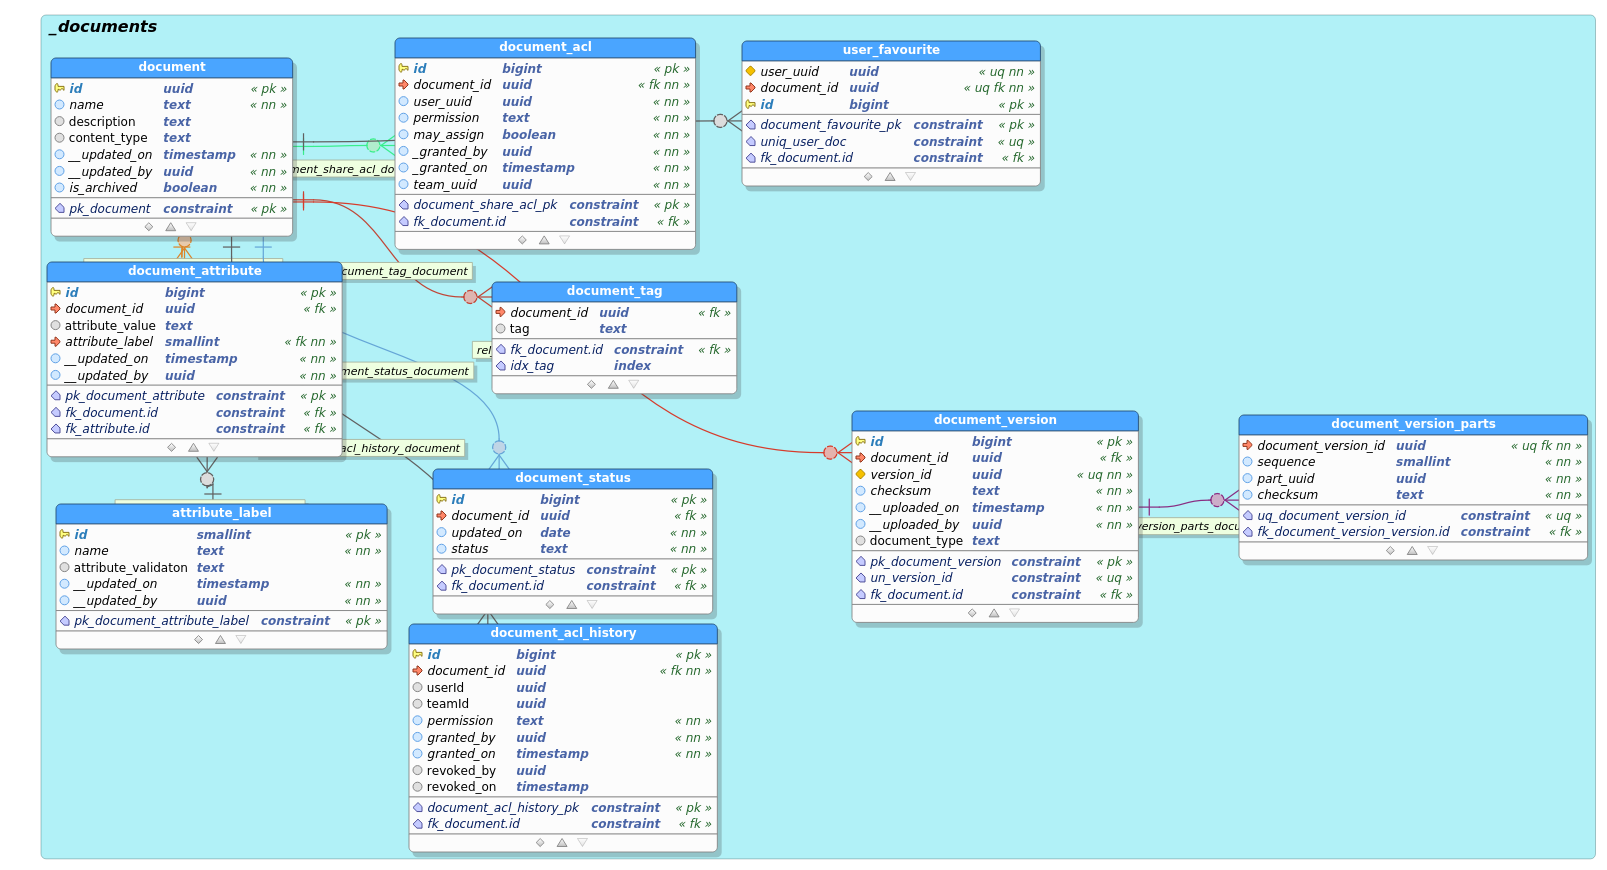
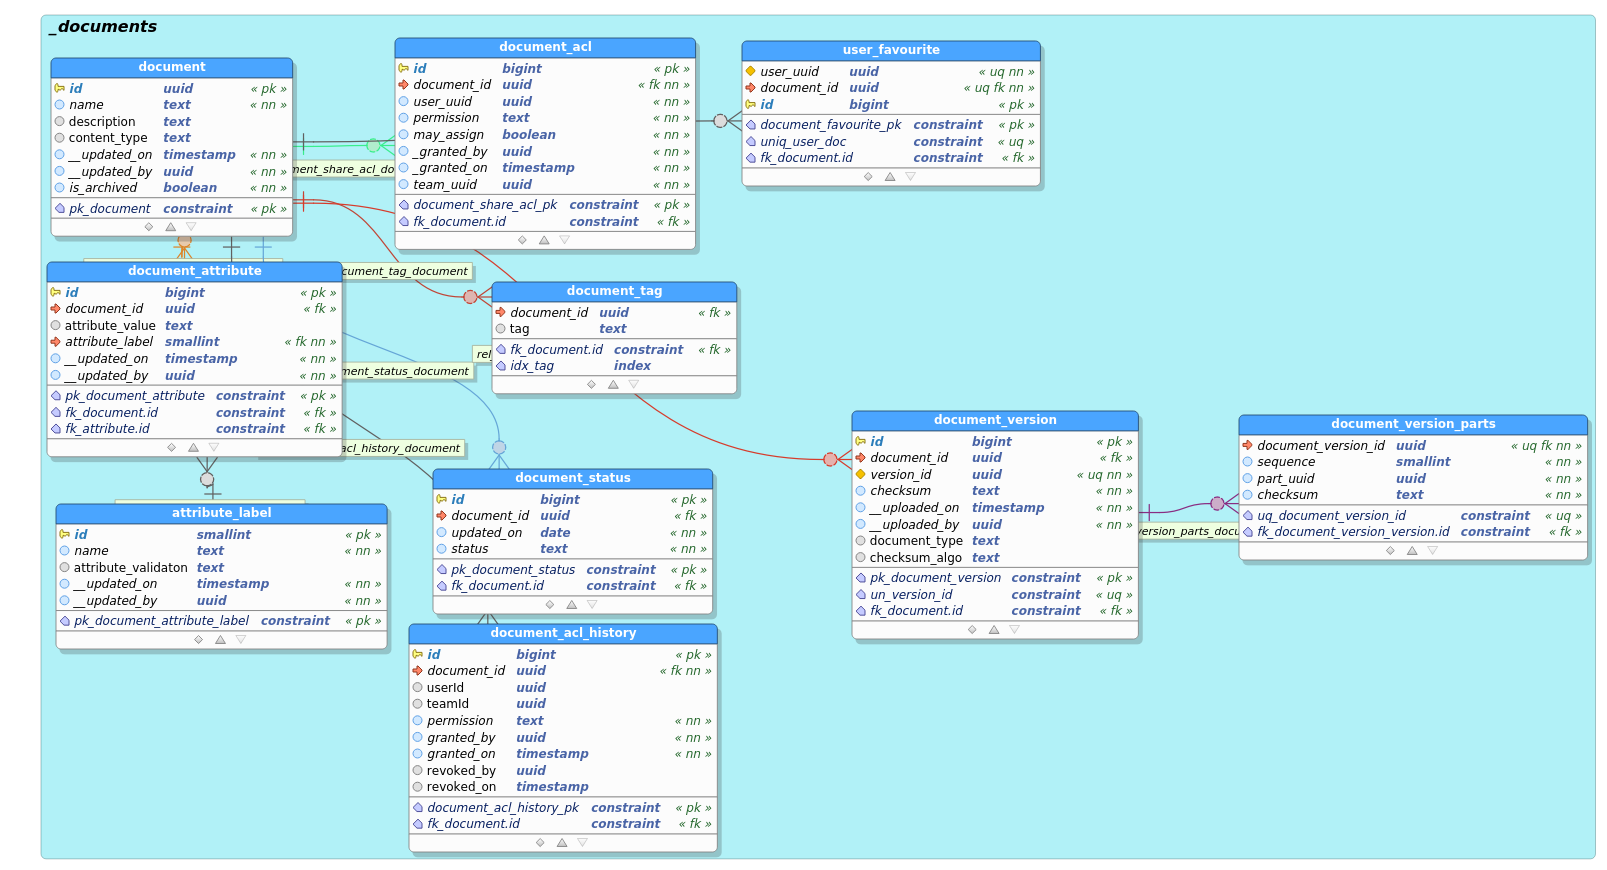
updated checksum algorithm

diff --git a/src/main/java/za/co/grindrodbank/dokuti/document/DocumentServiceImpl.java b/src/main/java/za/co/grindrodbank/dokuti/document/DocumentServiceImpl.java
@@ -127,7 +127,11 @@ public class DocumentServiceImpl implements DocumentService {
 		try {
 			File file = fileContent.getFile();
 			byte[] fileContentByteArray = Files.readAllBytes(file.toPath());
-			String calculatedFileContentChecksum = getFileContentChecksum(fileContentByteArray);
+			String checkSumAlgo = documentVersion.getChecksumAlgo();
+			if (StringUtils.isEmpty(checkSumAlgo)) {
+			    checkSumAlgo = "MD5"; // to support old checksums
+			}
+			String calculatedFileContentChecksum = getFileContentChecksum(fileContentByteArray, checkSumAlgo);
 
 			logger.debug("Calculated File Content Checksum: {} : FileVersionMetaData checksum: {}",
 					calculatedFileContentChecksum, documentVersion.getChecksum());
@@ -172,10 +176,11 @@ public class DocumentServiceImpl implements DocumentService {
         DocumentVersionEntity documentVersionEntity = documentVersionService.findById(documentVersionId);
         
         String checksum = documentVersionEntity.getChecksum();
+        String checksumAlgo = documentVersionEntity.getChecksumAlgo();
         InputStream is;
         try {
             is = getDocumentDataForVersion(documentVersionEntity.getDocument(), documentVersionEntity).getInputStream();
-            createDocumentVersionWithInputStream(is, checksum, documentEntity);
+            createDocumentVersionWithInputStream(is, checksum, checksumAlgo, documentEntity);
         } catch (IOException e) {
             logger.error(e.getMessage());
             throw new ResourceNotFoundException("Error reading document data.", e);
@@ -205,11 +210,13 @@ public class DocumentServiceImpl implements DocumentService {
 	 * @return The new document version that was created for the document.
 	 */
 	private DocumentVersionEntity createDocumentVersionWithFile(MultipartFile file, DocumentEntity document) {
+	    String defaultChecksumAlgo = "SHA-256";
+	    
 		String fileContentChecksum = "";
 		String documentType ="";
 
 		try {
-			fileContentChecksum = getFileContentChecksum(file.getBytes());
+			fileContentChecksum = getFileContentChecksum(file.getBytes(), defaultChecksumAlgo);
 		} catch (IOException e) {
 			logger.error(e.getMessage());
 		}
@@ -223,14 +230,13 @@ public class DocumentServiceImpl implements DocumentService {
         }
 		
 		DocumentVersionEntity newDocumentVersion = documentVersionService.createDocumentVersion(document,
-				fileContentChecksum, documentType);
+				fileContentChecksum, defaultChecksumAlgo, documentType);
 		documentStoreService.store(file, document.getId(), newDocumentVersion.getId());
 
 		return newDocumentVersion;
 	}
 
-    private DocumentVersionEntity createDocumentVersionWithInputStream(InputStream is, String fileContentChecksum, DocumentEntity document) {
-        
+    private DocumentVersionEntity createDocumentVersionWithInputStream(InputStream is, String fileContentChecksum, String checksumAlgo, DocumentEntity document) {
         String documentType ="";
         Tika tika = new Tika();
         try {
@@ -240,17 +246,17 @@ public class DocumentServiceImpl implements DocumentService {
             throw new ResourceNotFoundException("Error reading document data.", e);
         }
         
-        DocumentVersionEntity newDocumentVersion = documentVersionService.createDocumentVersion(document, fileContentChecksum, documentType);
+        DocumentVersionEntity newDocumentVersion = documentVersionService.createDocumentVersion(document, fileContentChecksum, checksumAlgo, documentType);
         documentStoreService.store(is, document.getId(), newDocumentVersion.getId());
 
         return newDocumentVersion;
     }
 	
-	
-	public String getFileContentChecksum(byte[] fileByteArray) {
+	@Override
+	public String getFileContentChecksum(byte[] fileByteArray, String checksumAlgo) {
 
 		try {
-			MessageDigest messageDigest = MessageDigest.getInstance("MD5");
+			MessageDigest messageDigest = MessageDigest.getInstance(checksumAlgo);
 			byte[] messageDigestHash = messageDigest.digest(fileByteArray);
 			String messageDigestHashString = "";
 
@@ -393,3 +399,5 @@ public class DocumentServiceImpl implements DocumentService {
 		}
 	}
 }
+
+

diff --git a/src/test/java/za/co/grindrodbank/dokuti/document/DocumentServiceUnitTests.java b/src/test/java/za/co/grindrodbank/dokuti/document/DocumentServiceUnitTests.java
@@ -222,7 +222,7 @@ public class DocumentServiceUnitTests {
 		mockDocumentVersion.setUploadedBy(userId);
 
 		Mockito.when(documentRepository.save(any(DocumentEntity.class))).thenReturn(documentMock);
-		Mockito.when(documentVersionService.createDocumentVersion(any(DocumentEntity.class), any(String.class), any(String.class)))
+		Mockito.when(documentVersionService.createDocumentVersion(any(DocumentEntity.class), any(String.class), any(String.class),any(String.class)))
 				.thenReturn(mockDocumentVersion);
 
 		PowerMockito.mockStatic(SecurityContextUtility.class);
@@ -325,7 +325,7 @@ public class DocumentServiceUnitTests {
 		mockDocumentVersion.setId(documentVersionId);
 		mockDocumentVersion.setUploadedBy(userId);
 
-		Mockito.when(documentVersionService.createDocumentVersion(any(DocumentEntity.class), any(String.class), any(String.class)))
+		Mockito.when(documentVersionService.createDocumentVersion(any(DocumentEntity.class), any(String.class), any(String.class), any(String.class)))
 				.thenReturn(mockDocumentVersion);
 		Mockito.when(documentRepository.save(any(DocumentEntity.class))).thenReturn(documentMock);
 		Mockito.when(resourcePermission.accessingUserCanWriteDocument((any(DocumentEntity.class)))).thenReturn(true);
@@ -379,7 +379,7 @@ public class DocumentServiceUnitTests {
 		mockDocumentVersion.setId(documentVersionId);
 		mockDocumentVersion.setUploadedBy(userId);
 
-		Mockito.when(documentVersionService.createDocumentVersion(any(DocumentEntity.class), any(String.class), any(String.class)))
+		Mockito.when(documentVersionService.createDocumentVersion(any(DocumentEntity.class), any(String.class), any(String.class), any(String.class)))
 				.thenReturn(mockDocumentVersion);
 		Mockito.when(documentRepository.save(any(DocumentEntity.class))).thenReturn(documentMock);
 		Mockito.when(resourcePermission.accessingUserCanWriteDocument((any(DocumentEntity.class)))).thenReturn(true);
@@ -413,7 +413,7 @@ public class DocumentServiceUnitTests {
 		mockDocumentVersion.setId(documentVersionId);
 		mockDocumentVersion.setUploadedBy(userId);
 
-		Mockito.when(documentVersionService.createDocumentVersion(any(DocumentEntity.class), any(String.class), any(String.class)))
+		Mockito.when(documentVersionService.createDocumentVersion(any(DocumentEntity.class), any(String.class), any(String.class), any(String.class)))
 				.thenReturn(mockDocumentVersion);
 		Mockito.when(documentRepository.save(any(DocumentEntity.class))).thenReturn(documentMock);
 		Mockito.when(resourcePermission.accessingUserCanWriteDocument((any(DocumentEntity.class)))).thenReturn(false);

diff --git a/src/main/java/za/co/grindrodbank/dokuti/documentversion/DocumentVersionEntity.java b/src/main/java/za/co/grindrodbank/dokuti/documentversion/DocumentVersionEntity.java
@@ -41,6 +41,9 @@ public class DocumentVersionEntity {
 	@Column(length = 32)
 	private String checksum;
 	
+    @Column(name = "checksum_algo")
+    private String checksumAlgo;	
+	
     @Type(type = "org.hibernate.type.TextType")
     @Column(name = "document_type", nullable = false)
     private String documentType;	
@@ -96,6 +99,14 @@ public class DocumentVersionEntity {
 
     public void setDocumentType(String documentType) {
         this.documentType = documentType;
+    }
+
+    public String getChecksumAlgo() {
+        return checksumAlgo;
+    }
+
+    public void setChecksumAlgo(String checksumAlgo) {
+        this.checksumAlgo = checksumAlgo;
     }
 
 }

diff --git a/src/main/java/za/co/grindrodbank/dokuti/documentversion/DocumentVersionServiceImpl.java b/src/main/java/za/co/grindrodbank/dokuti/documentversion/DocumentVersionServiceImpl.java
@@ -56,10 +56,11 @@ public class DocumentVersionServiceImpl implements DocumentVersionService {
 		}
 	}
 
-	public DocumentVersionEntity createDocumentVersion(DocumentEntity document, String checksum, String documentType) {
+	public DocumentVersionEntity createDocumentVersion(DocumentEntity document, String checksum, String checksumAlgo, String documentType) {
 		DocumentVersionEntity documentVersion = new DocumentVersionEntity();
 		documentVersion.setDocument(document);
 		documentVersion.setChecksum(checksum);
+		documentVersion.setChecksumAlgo(checksumAlgo);
 		documentVersion.setDocumentType(documentType);
 
 		try {

diff --git a/src/main/java/za/co/grindrodbank/dokuti/documentversion/DocumentVersionService.java b/src/main/java/za/co/grindrodbank/dokuti/documentversion/DocumentVersionService.java
@@ -35,6 +35,6 @@ public interface DocumentVersionService {
 	 * @param document The document to create the new version for.
 	 * @return An instance of the newly created document version.
 	 */
-	public DocumentVersionEntity createDocumentVersion(DocumentEntity document, String checksum, String documentType);
+	public DocumentVersionEntity createDocumentVersion(DocumentEntity document, String checksum, String checksumAlgo, String documentType);
 
 }

diff --git a/src/main/java/za/co/grindrodbank/dokuti/document/DocumentService.java b/src/main/java/za/co/grindrodbank/dokuti/document/DocumentService.java
@@ -104,7 +104,7 @@ public interface DocumentService {
 	 * @return The calculated checksum on success, null if there was an error
 	 *         performing the calculation.
 	 */
-	public String getFileContentChecksum(byte[] fileByteArray);
+	public String getFileContentChecksum(byte[] fileByteArray, String checksumAlgo);
 
 	/**
 	 * Checks whether the calculated checksum for the content of a given file
